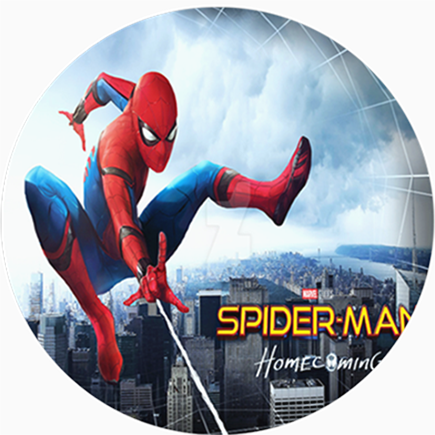
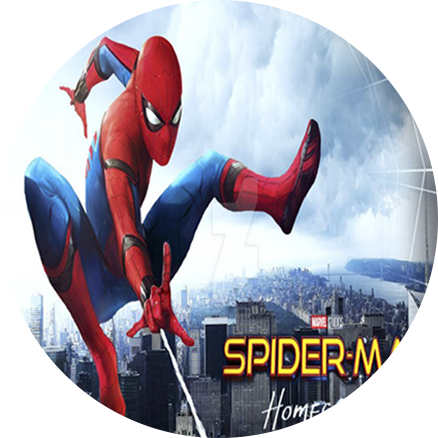
Update new animation

diff --git a/Index.html b/Index.html
@@ -5,37 +5,41 @@
     <meta charset="UTF-8">
     <link rel="stylesheet" href="style.css">
     <title>World Movie</title>
-    
+    <script src="animation.js"></script>
+
+    <script type="text/javascript">
+        function ChangeImage(){
+            var image = document.getElementById("bigImagePoster");
+            image.src = "./Images/poster_annabelle.png"
+
+        }
+    </script>
 </head>
 
 <body>
     <div class="body">
-      
         <div class="Movie_Title">
             <p>Spider-Man HomeComing</p>
         </div>
         <div class="centerInfo">
-                <script src="animation.js"></script>
             <img src="./Images/poster_border.png" alt="BigPoster" id="bigImageBorder">
-            <img src="./Images/poster2.png" alt="portal" id="bigImagePoster">
+            <img src="./Images/poster_spiderman.png" alt="portal" id="bigImagePoster">
             <img src="./Images/portal.png" alt="portal" id="bigImagePortal">
         </div>
-        <div class="Movie_List_Title1">          
+      <div class="Movie_List_Title1" onclick="ChangeImage();">          
             <p>Spider-Man</p>
             <p1>Action</p1>
           <div clas="Movie_tag">
-            <img src="./Images/small_img_spider.png" alt="smallimg_spider" id="small_img_spider">
-            <img src="./Images/icon_flash.png" alt="smalliconflash" id="small_icon_flash">
             <img src="./Images/icon_film.png" alt="smalliconfilm" id="small_icon_film">
+            <img src="./Images/small_img_spider.png" alt="smallimg_spider" id="small_img_spider" >
+            <img src="./Images/icon_flash.png" alt="smalliconflash" id="small_icon_flash">
             <img src="./Images/pick_border.png" alt="pickborder" id="pick_border">
           </div>
         </div>
-
         <div class="Reveal" style="position:relative;left:1000px;top:200px;width: 200px;height:500px">
         	<div class="First">
         		<h1>Movie Detail</h1>
-			
-		  		<p>Year Release: 2017.</p>
+			    <p>Year Release: 2017.</p>
 		  		<p>Studio: Marvel (MCU)</p>
 		  		<p1>Summary: Following the events of Captain America: Civil War, Peter Parker, with the help of his mentor Tony Stark, tries to balance his life as an ordinary high school student in Queens, New York City, with fighting crime as his superhero alter ego Spider-Man as a new threat, the Vulture, emerges. </p1>
 			</div>

diff --git a/style.css b/style.css
@@ -26,8 +26,8 @@
 }
 
 #bigImagePoster {
-    top: 8px;
-    left: 8px;
+    top: 6px;
+    left: 6px;
     position: absolute;
 }
 
@@ -146,7 +146,6 @@
     height: 66px;
 }
 
-
 .Movie_List_Title1 p{
     flex: 1;
     color: white;
@@ -248,4 +247,8 @@
 
   margin-left:-355px;
   animation: slidein 7s infinite;
+}
+
+.Movie_List_Title1:active, .Movie_tag:active{
+   
 }
